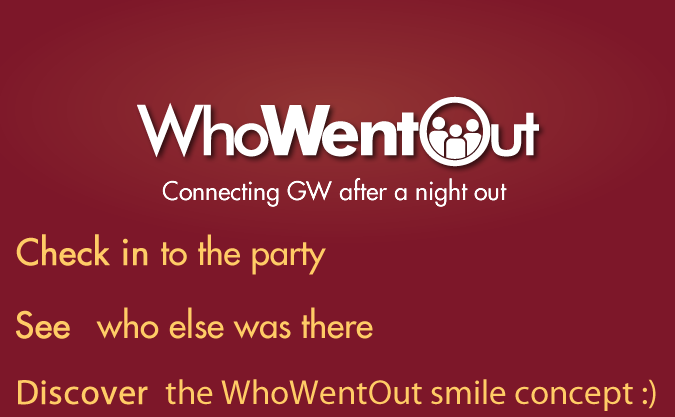
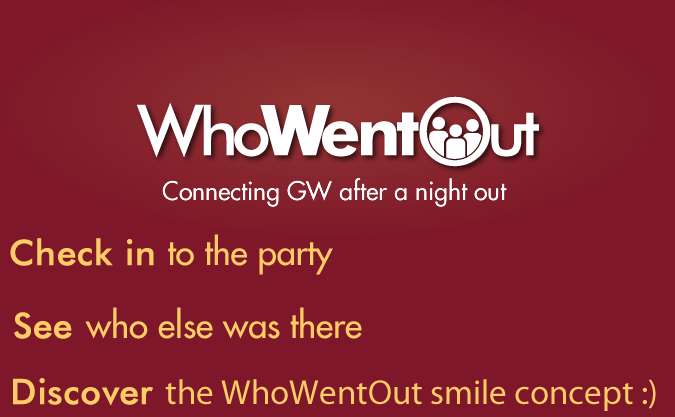
made words bolder on front page

Changed region(s): [[0.0, 0.5612, 0.4978, 0.6547], [0.0, 0.717, 0.56, 0.8106], [0.0, 0.9041, 0.2178, 0.9664]]

diff --git a/whowentout/modules/whowentout.website/views/homepage.view.php b/whowentout/modules/whowentout.website/views/homepage.view.php
@@ -22,7 +22,7 @@
 <body id="<?= body_id() ?>">
 
 <div id="homepage_message">
-    <img src="/assets/images/homepage.png?version=8" />
+    <img src="/assets/images/homepage.png?version=10" />
     <a id="enter_button" href="/login">Enter</a>
 </div>
 
